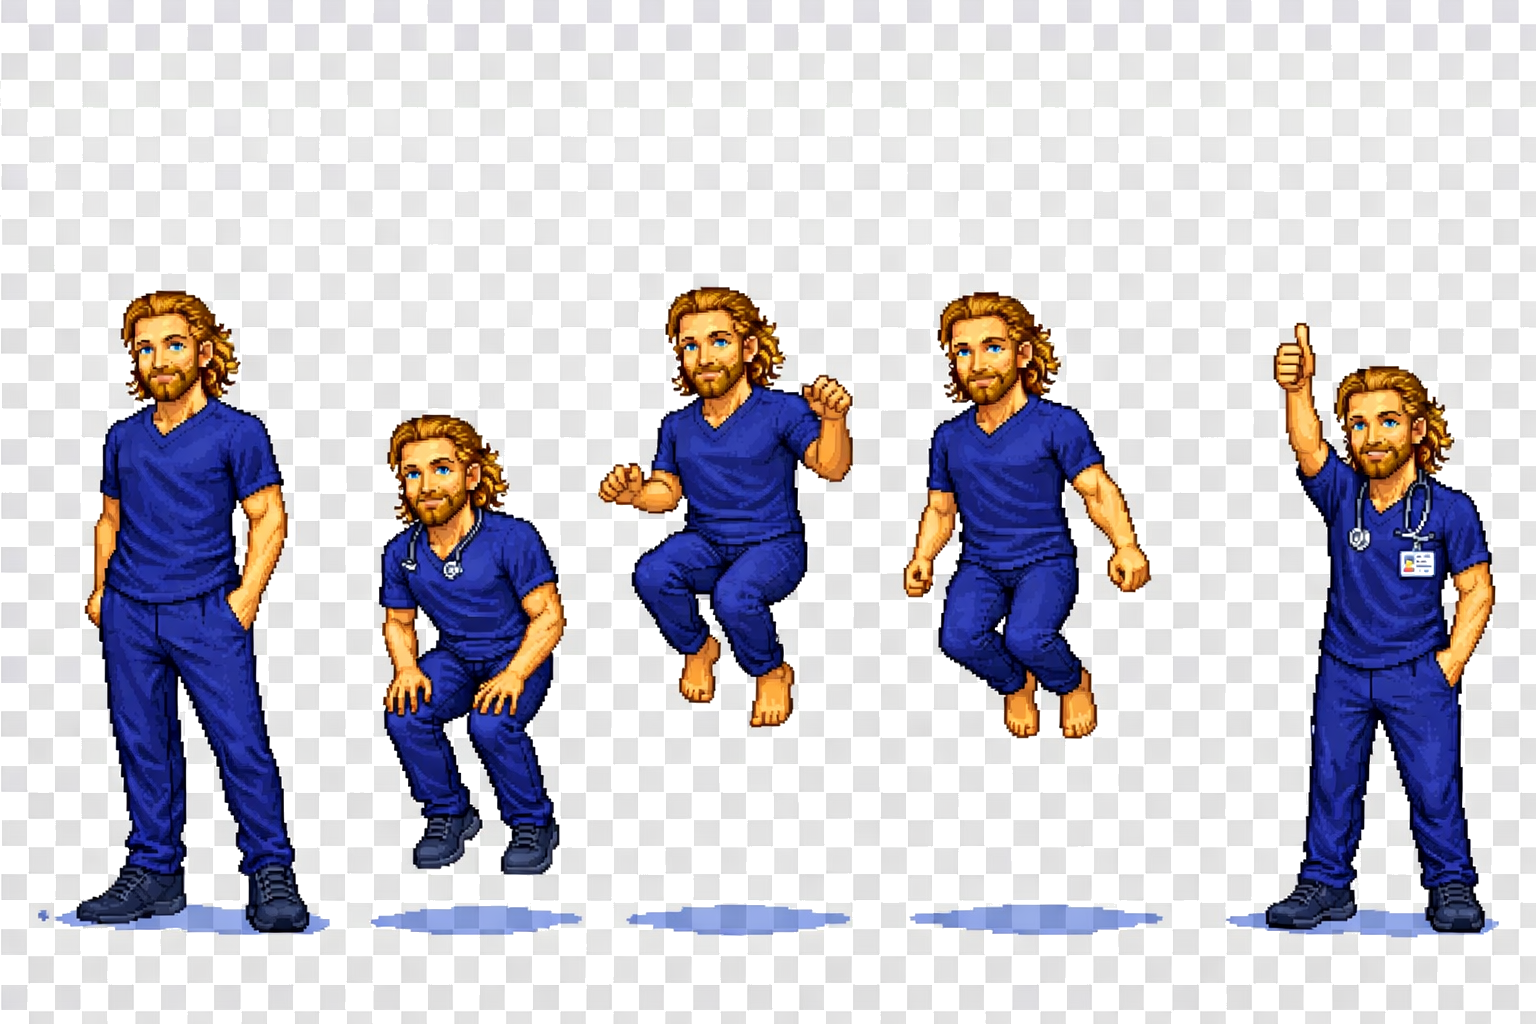
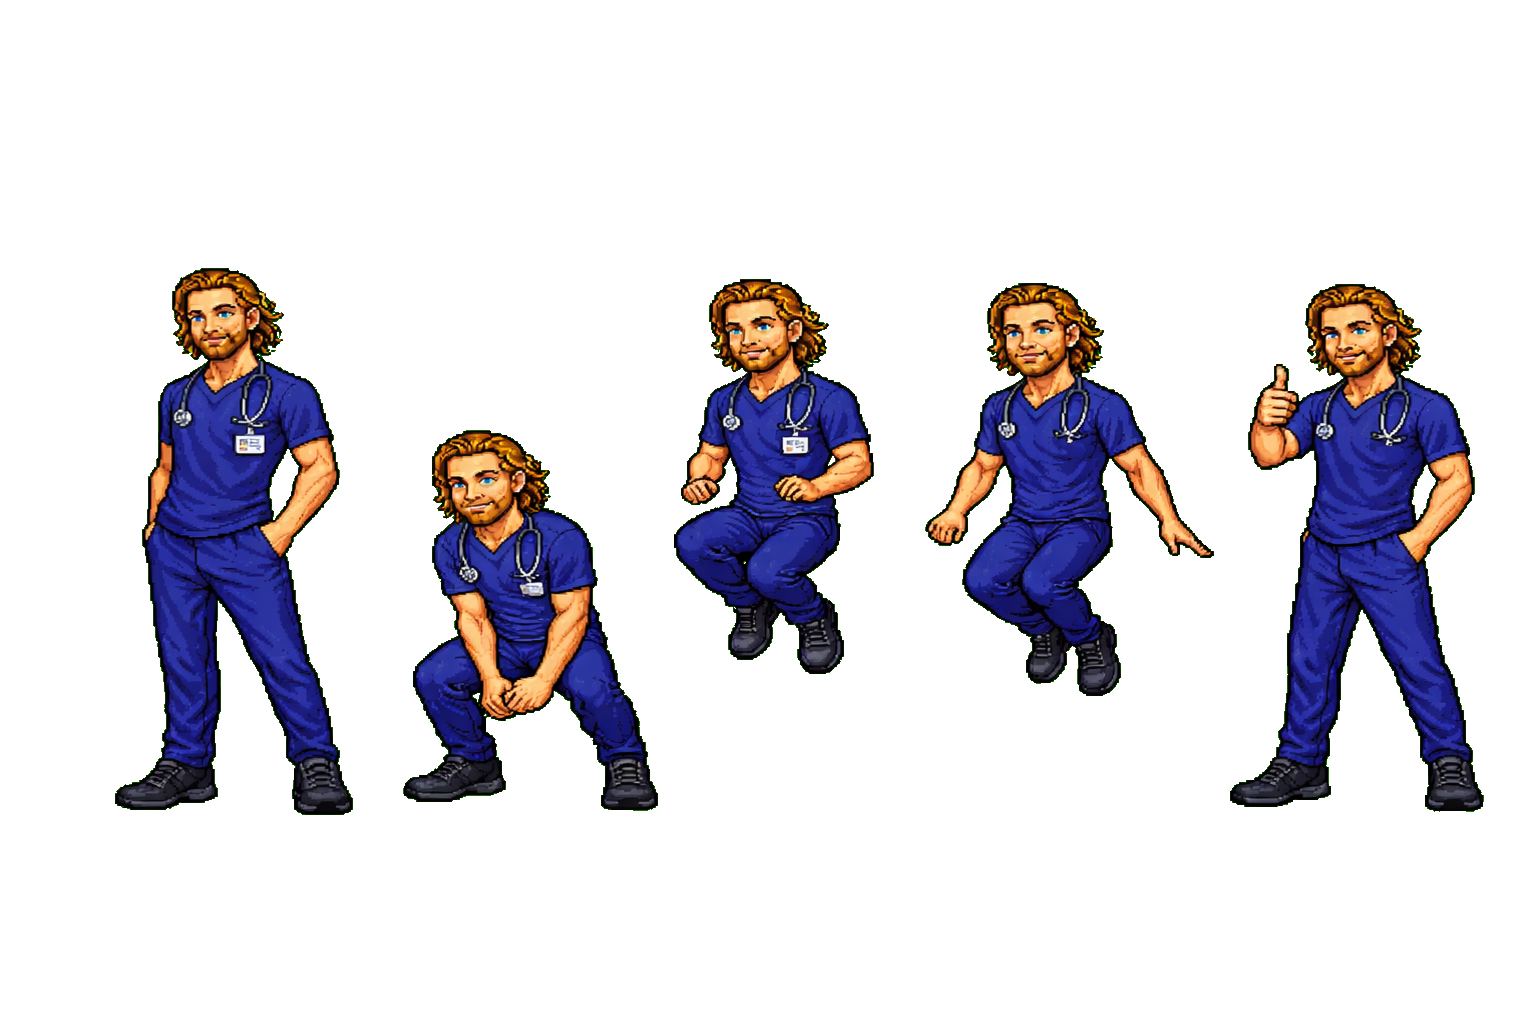
Update doctor's jumping and landing animations with new spritesheet
Replace doctor's animation spritesheet, remove green screen, resize, and update animation frame mapping and landing sequence in GameScene.ts.

Replit-Commit-Author: Agent
Replit-Commit-Session-Id: 41ee78e8-5914-4429-957a-995dc8ee2e7c
Replit-Commit-Checkpoint-Type: full_checkpoint
Replit-Commit-Event-Id: 66d7f9f0-5be4-4032-9a63-5764344486dd
Replit-Commit-Screenshot-Url: https://storage.googleapis.com/screenshot-production-us-central1/e25b18e0-a021-4c0f-9697-4e490076bdab/41ee78e8-5914-4429-957a-995dc8ee2e7c/r5uxe6h
Replit-Helium-Checkpoint-Created: true

diff --git a/artifacts/michael-journey/src/game/scenes/GameScene.ts b/artifacts/michael-journey/src/game/scenes/GameScene.ts
@@ -150,28 +150,34 @@ export class GameScene extends Phaser.Scene {
     const scaleH = this.isDoctorAnim ? height * 0.13 : height * 0.11;
     this.player.setScale(scaleH / this.player.height);
 
-    // ── Doctor animations (create once; global AnimationManager persists) ──
+    // ── Doctor animations (recreate each scene start so frame changes take effect) ──
     if (this.isDoctorAnim) {
-      if (!this.anims.exists("doc_jump")) {
-        this.anims.create({
-          key:       "doc_jump",
-          frames:    this.anims.generateFrameNumbers("doc_anim", { frames: [2, 3] }),
-          frameRate: 7,
-          repeat:    -1,
-        });
-        this.anims.create({
-          key:       "doc_fall",
-          frames:    this.anims.generateFrameNumbers("doc_anim", { frames: [3] }),
-          frameRate: 1,
-          repeat:    0,
-        });
-        this.anims.create({
-          key:       "doc_land",
-          frames:    this.anims.generateFrameNumbers("doc_anim", { frames: [1, 0] }),
-          frameRate: 14,
-          repeat:    0,
-        });
-      }
+      ["doc_jump", "doc_fall", "doc_land"].forEach(k => {
+        if (this.anims.exists(k)) this.anims.remove(k);
+      });
+      // Frame guide (new green-screen spritesheet):
+      //  0 = standing idle   1 = crouch/land
+      //  2 = jump ascending  3 = falling / peak
+      //  4 = thumbs up
+      this.anims.create({
+        key:       "doc_jump",
+        frames:    this.anims.generateFrameNumbers("doc_anim", { frames: [2, 3] }),
+        frameRate: 8,
+        repeat:    -1,
+      });
+      this.anims.create({
+        key:       "doc_fall",
+        frames:    this.anims.generateFrameNumbers("doc_anim", { frames: [3] }),
+        frameRate: 1,
+        repeat:    0,
+      });
+      this.anims.create({
+        key:       "doc_land",
+        // crouch → thumbs-up → idle — brief celebratory flash on every landing
+        frames:    this.anims.generateFrameNumbers("doc_anim", { frames: [1, 4, 0] }),
+        frameRate: 14,
+        repeat:    0,
+      });
       // When doc_land finishes, release control back to the velocity-based state machine
       this.player.on("animationcomplete-doc_land", () => {
         this.docAnimState = "";
